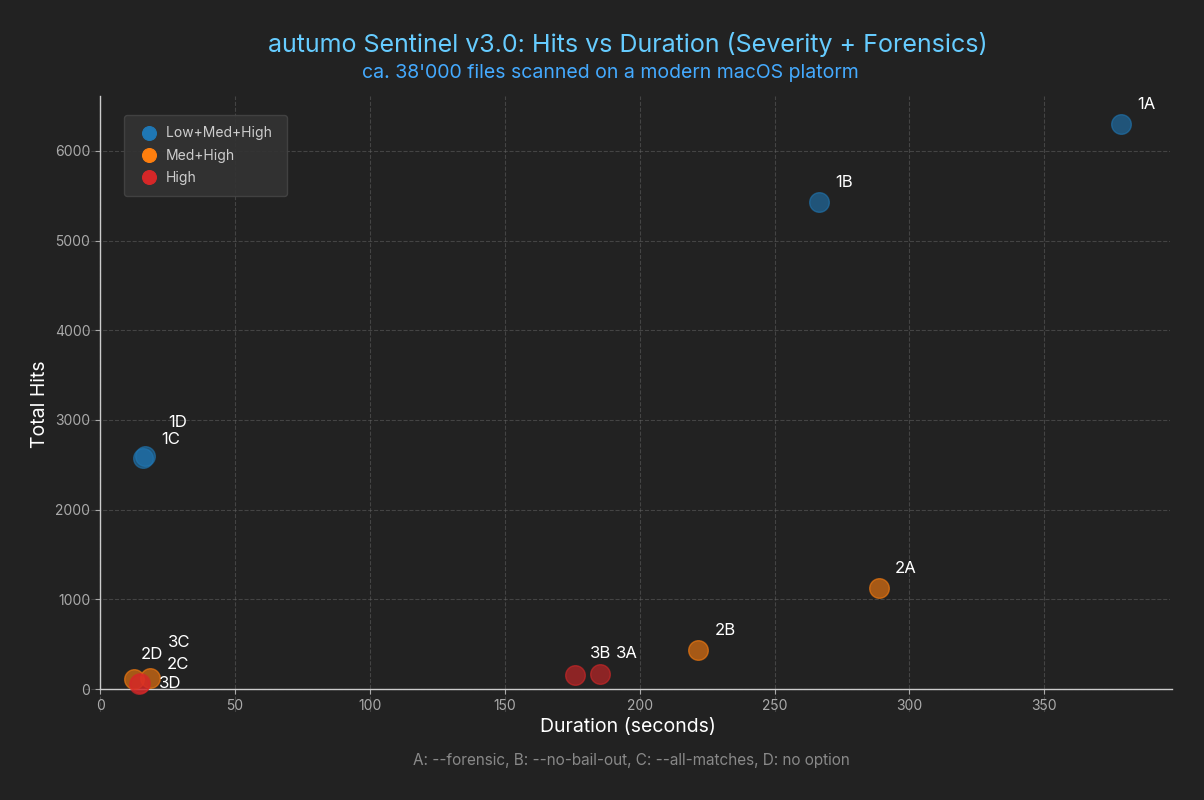
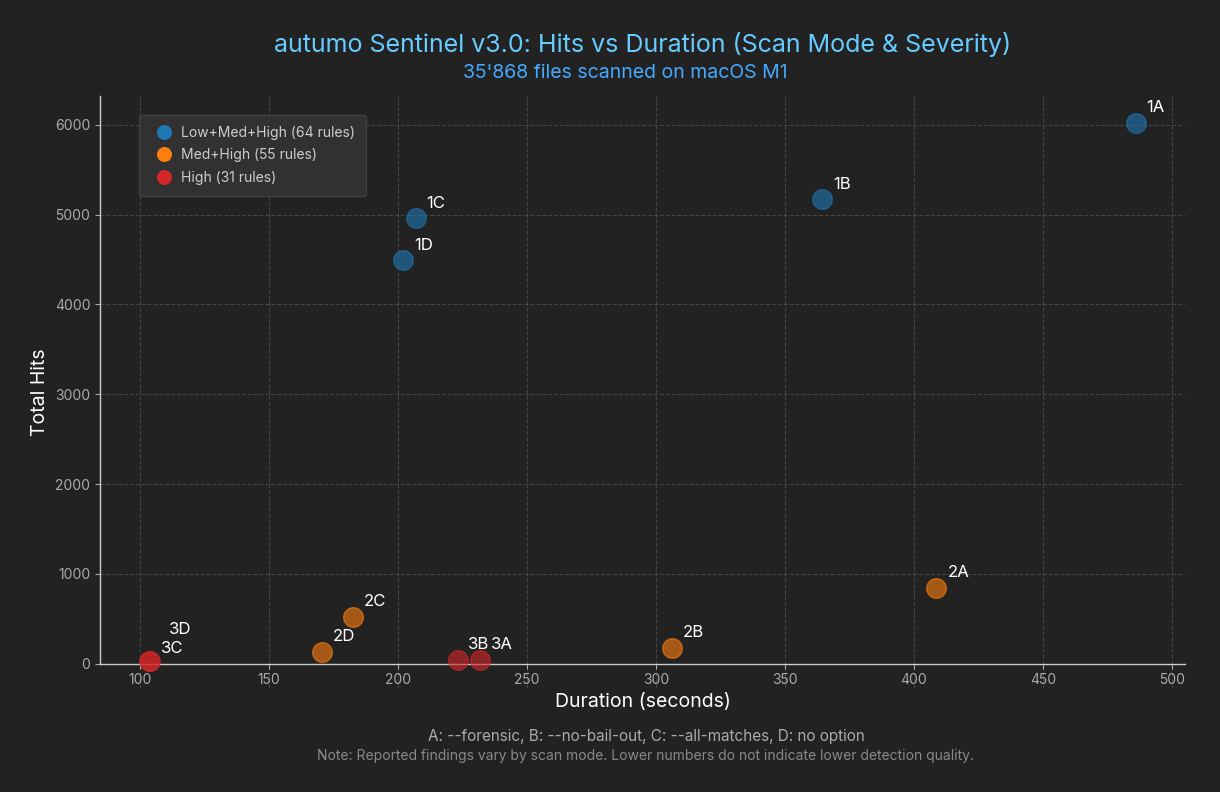
Doc update

diff --git a/app/sentinel.py b/app/sentinel.py
@@ -209,18 +209,21 @@ OPTIONS:
           - high    high severity only
 
   --no-bail-out
-        Disable bail-out limits.
-        Processes entire files without line or character limits.
-        May significantly increase scan time.
+        Prevents early termination when a finding is detected.
+        The scanner continues analyzing the full file, but reports
+        only the first match per rule.
+        Use '--all-matches' to collect multiple findings per file.
 
   --all-matches
-        Evaluate all heuristic rules.
-        Ignores rules marked with 'only_if_no_match'.
+        Report all matches per rule and file instead of stopping after the
+        first finding. May increase scan time and output size.
+        Note: Rules marked as 'only_if_no_match' are ignored when this
+        option is enabled.
 
   --forensic
-        Enable forensic mode.
+        Enable forensic mode for exhaustive analysis and reporting.
         Equivalent to:
-          --no-bail-out + --all-matches
+          '--no-bail-out' + '--all-matches'
 
   --exclude-dirs <dir1,dir2,...>
         Comma-separated list of directory names to exclude

diff --git a/README.md b/README.md
@@ -34,7 +34,11 @@ autumo Sentinel is a heuristic-driven, multi-stage scanner for detecting supply-
 The following chart provides an overview of **autumo Sentinel v3.0** across 12 runs with different combinations of severity levels and scan options. It visualizes the relationship between **total hits** and **scan duration**, highlighting the impact of severity and forensic-related options.
 
 ![autumo Sentinel Hits vs Duration](app/resources/performance.png)
-**Note:** Figure is outdated – needs updating.
+**Note:** Reported findings vary by scan mode. Sentinel intentionally separates analysis depth from finding count. Lower numbers do not mean lower detection quality.
+
+> **Scan depth:** controlled by `--no-bail-out`
+> **Reported findings:** controlled by `--all-matches`
+> **Rule precision:** controlled by `--heuristics-level`
 
 Each point represents a single run:
 - **Labels**:
@@ -187,13 +191,13 @@ sentinel <directory> [options]
   - high – high severity only
 
 - `--no-bail-out`
-  Disable bail-out limits. Processes entire files without line or character limits. May significantly increase scan time.
+  Prevents early termination when a finding is detected. The scanner continues analyzing the full file, but reports only the first match per rule. Use `--all-matches` to collect multiple findings per file.
 
 - `--all-matches`
-  Evaluate all heuristic rules, ignoring rules marked with `only_if_no_match`.
+  Report all matches per rule and file instead of stopping after the first finding. May increase scan time and output size. Note: Rules marked as `only_if_no_match` are ignored when this option is enabled.
 
 - `--forensic`
-  Enable forensic mode (equivalent to `--no-bail-out` + `--all-matches`).
+  Enable forensic mode for exhaustive analysis and reporting. Equivalent to: `--no-bail-out` + `--all-matches`.
 
 - `--exclude-dirs <dir1,dir2,...>`
   Comma-separated list of directory names to exclude from scanning (matched by directory basename).
